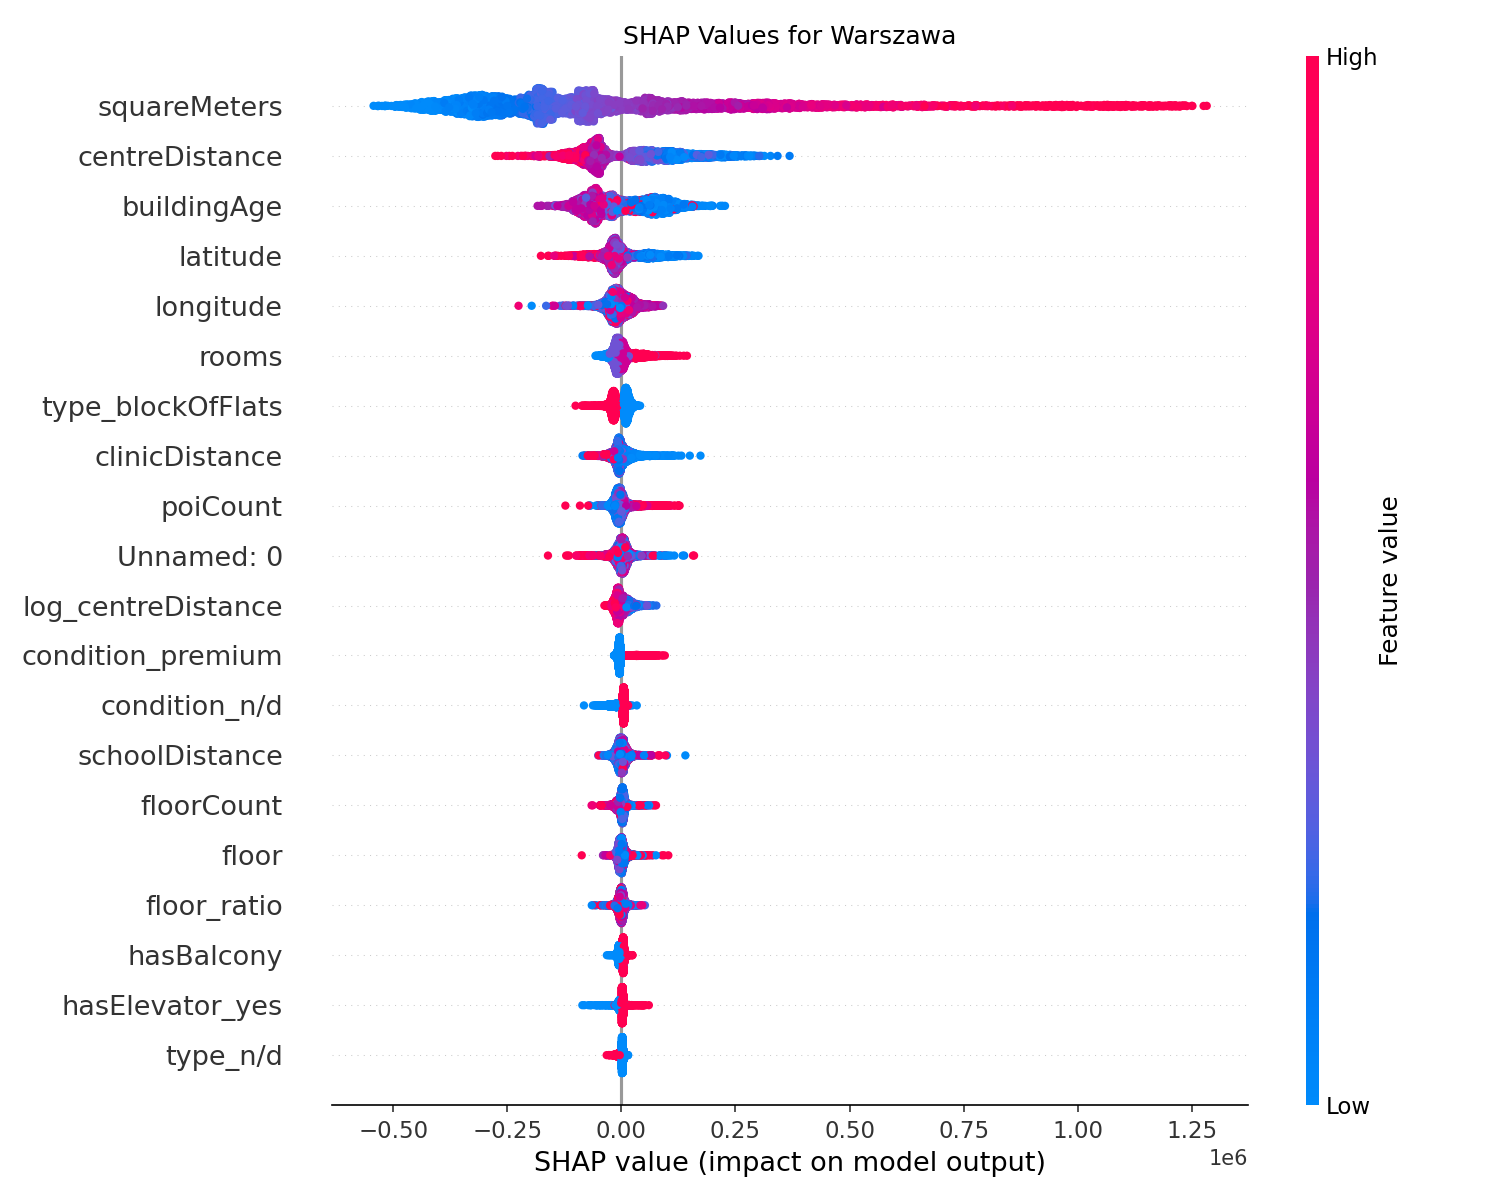
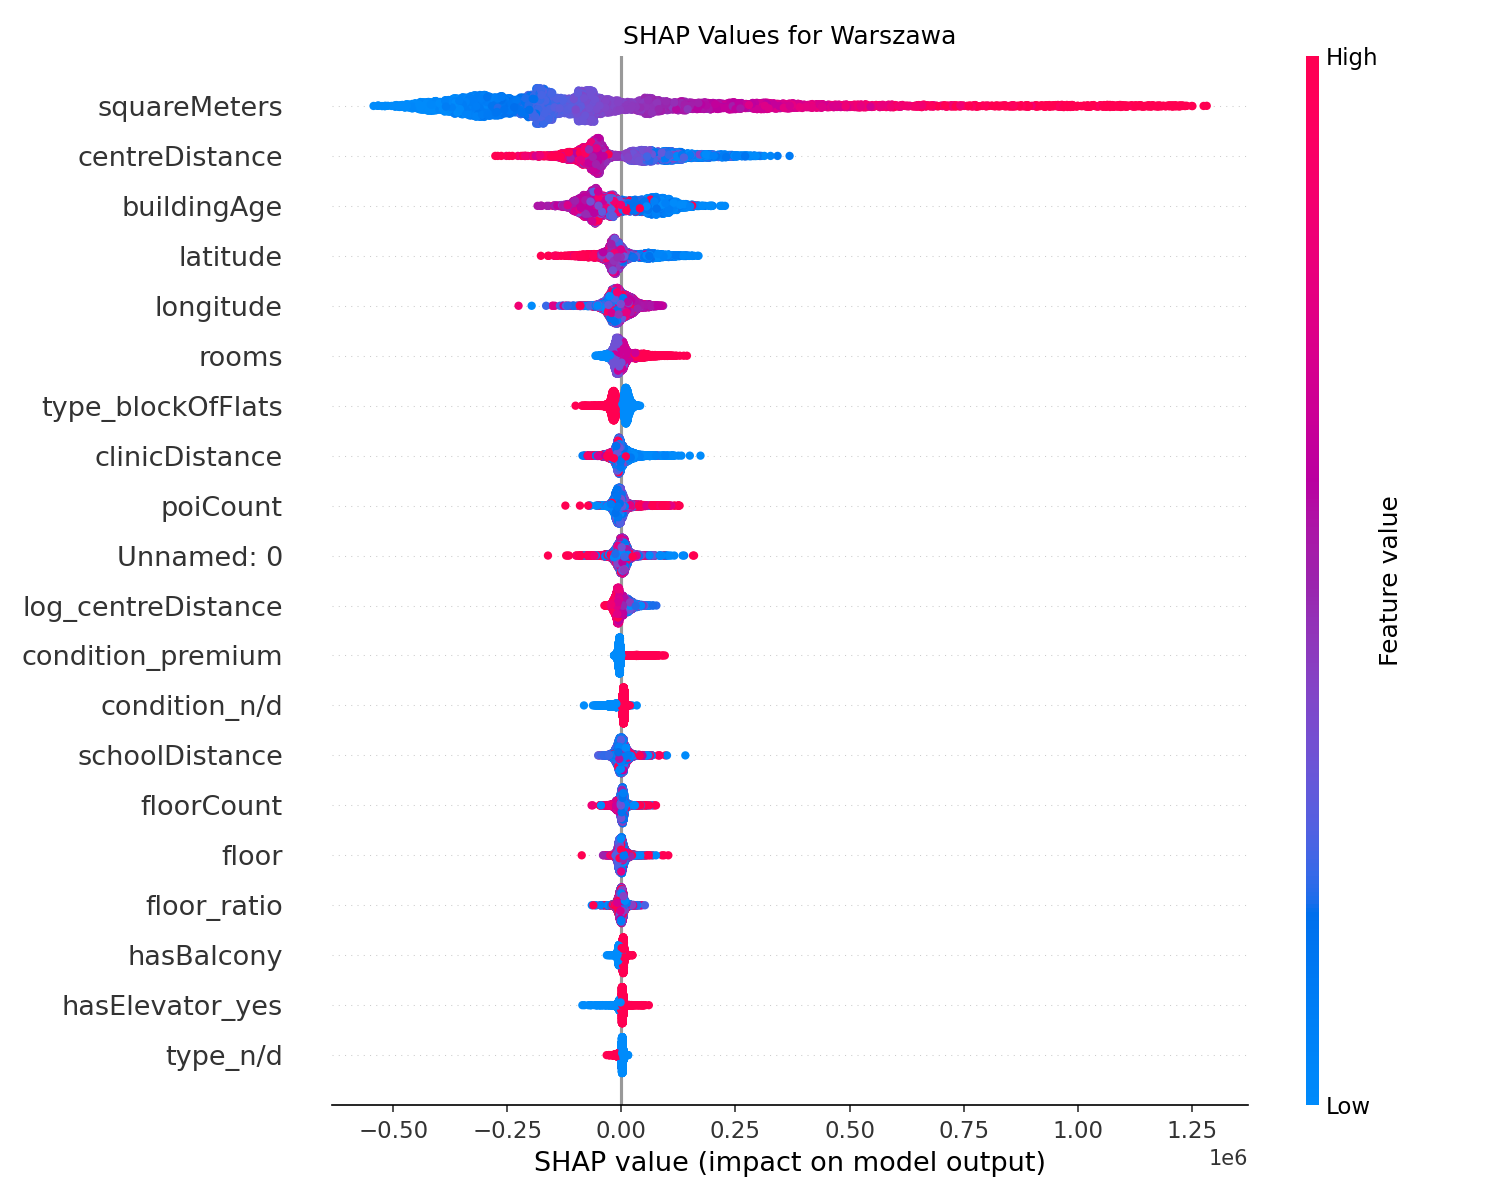
XGB visualisation

diff --git a/visualize.py b/visualize.py
@@ -3,10 +3,11 @@ import seaborn as sns
 import pandas as pd
 import numpy as np
 import shap
+from xgboost import plot_importance
 
 # Visualize actual vs predicted prices
 
-def plot_actual_vs_predicted(y_true: pd.Series, y_pred: np.ndarray, target_city: str):
+def plot_actual_vs_predicted(y_true: pd.Series, y_pred: np.ndarray, target_city: str, model: str):
 
     plt.figure(figsize=(10, 6))
     sns.scatterplot(x=y_true, y=y_pred, alpha=0.6, color='blue')
@@ -24,12 +25,12 @@ def plot_actual_vs_predicted(y_true: pd.Series, y_pred: np.ndarray, target_city:
     plt.legend()
     plt.tight_layout()
     
-    filename = f"Lin_reg/actual_vs_predicted_{city_name.lower().replace(' ', '_')}.png"
+    filename = f"{model}/actual_vs_predicted_{city_name.lower().replace(' ', '_')}.png"
     plt.savefig(filename, dpi=300, bbox_inches='tight')
     print(f"Plot saved to {filename}")
     plt.show()
 
-def plot_residuals(y_true: pd.Series, y_pred: np.ndarray, target_city: str):
+def plot_residuals(y_true: pd.Series, y_pred: np.ndarray, target_city: str, model: str):
     """
     Generates a histogram of the residuals (errors) to analyze their distribution.
     """
@@ -49,12 +50,12 @@ def plot_residuals(y_true: pd.Series, y_pred: np.ndarray, target_city: str):
     plt.legend()
     plt.tight_layout()
     
-    filename = f"Lin_reg/residuals_{city_name.lower().replace(' ', '_')}.png"
+    filename = f"{model}/residuals_{city_name.lower().replace(' ', '_')}.png"
     plt.savefig(filename, dpi=300, bbox_inches='tight')
     print(f"Plot saved to {filename}")
     plt.show()
 
-def plot_residuals_vs_predicted(y_true: pd.Series, y_pred: np.ndarray, target_city: str):
+def plot_residuals_vs_predicted(y_true: pd.Series, y_pred: np.ndarray, target_city: str, model: str):
     """
     Generates a scatter plot of residuals vs predicted values to check for heteroscedasticity.
     """
@@ -74,27 +75,21 @@ def plot_residuals_vs_predicted(y_true: pd.Series, y_pred: np.ndarray, target_ci
     plt.legend()
     plt.tight_layout()
     
-    filename = f"Lin_reg/residuals_vs_predicted_{city_name.lower().replace(' ', '_')}.png"
+    filename = f"{model}/residuals_vs_predicted_{city_name.lower().replace(' ', '_')}.png"
     plt.savefig(filename, dpi=300, bbox_inches='tight')
     print(f"Plot saved to {filename}")
     plt.show()
 
-def feature_importance(model):
-    importance = model.get_booster().get_score(importance_type = 'gain')
-    feature_names = model.feature_names_in_ if hasattr(model, 'feature_names_in_') else range(len(importance))
-    df_importance = pd.DataFrame({'feature': feature_names, 'importance': list(importance)})
+def feature_importance(model, target_city: str, max_features: int = 15):
 
-    plt.figure(figsize=(10, 8))
-    plt.barh(df_importance['feature'], df_importance['importance'])
-    plt.xlabel('Importance (Gain)')
-    plt.title('XGB Feature Importance')
-    plt.gca().invert_yaxis()
+    plot_importance(model, importance_type = 'gain', max_num_features = max_features)
+    plt.title(f'XGBoost feature importance')
     plt.tight_layout()
-    plt.savefig("XGB/xgb_feature_importance.png", dpi=150)
+    plt.savefig('XGB/feature_importance.png')
     plt.show()
     
 
-def plot_shap_summary(model, X_test, target_city="Warszawa"):
+def shap_summary(model, X_test, target_city: str):
     explainer = shap.TreeExplainer(model)
     shap_values = explainer.shap_values(X_test)
     
@@ -104,3 +99,35 @@ def plot_shap_summary(model, X_test, target_city="Warszawa"):
     plt.tight_layout()
     plt.savefig("XGB/xgb_shap_summary.png", dpi=150)
     plt.show()
+
+def shap_dependence(model, X: pd.DataFrame, target_city: str, top_k: int = 5, samples: int = 2000):
+
+    X_sample = X.sample(n=samples, random_state=42)
+    X_sample = X_sample.reset_index(drop=True)
+
+    explainer = shap.TreeExplainer(model)
+    
+    shap_values = explainer.shap_values(X_sample)
+    shap_values = np.asarray(shap_values)
+
+    feature_names = X_sample.columns.tolist()
+
+    mean_abs = np.abs(shap_values).mean(axis=0)
+    importance = pd.Series(mean_abs, index=feature_names)
+
+    top_features = importance.sort_values(ascending=False).head(top_k).index.to_list()
+
+    for feature in top_features:
+        feature_index = feature_names.index(feature)
+
+        shap.dependence_plot(
+            feature_index, 
+            shap_values, 
+            X_sample, 
+            feature_names = feature_names,
+            show=False
+        )
+
+        plt.title(f'SHAP Dependencies')
+        plt.tight_layout()
+        plt.show()

diff --git a/main.py b/main.py
@@ -1,7 +1,7 @@
 from data_loader import load_data
 from preprocess import clean_data, engineer_features, encode_features_train, encode_features_test
 from model import split_data, scale_data, train_linear_regression, evaluate_model, save_model, load_model
-from visualize import plot_actual_vs_predicted, plot_residuals, plot_residuals_vs_predicted, plot_shap_summary, feature_importance
+from visualize import plot_actual_vs_predicted, plot_residuals, plot_residuals_vs_predicted, shap_summary, feature_importance, shap_dependence 
 from model_xgb import optimize_params, load_or_train_model
 from sklearn.model_selection import train_test_split
 import pandas as pd
@@ -9,7 +9,7 @@ import pandas as pd
 def main():
     # Set to 'warszawa', 'szczecin', 'gdansk', etc. or None for the whole dataset
     TARGET_CITY = 'warszawa'  
-    model = 'XGB'
+    model_type = 'XGB'
     
     # Loading data
     #df = load_data()
@@ -46,7 +46,7 @@ def main():
     df_test_encoded = encode_features_test(X_test, train_feature_col)
     df_test_encoded = df_test_encoded.reindex(columns=df_train_encoded.columns, fill_value=0)
 
-    if model == 'Lin_reg':
+    if model_type == 'Lin_reg':
 
         X_train_lin = df_train_encoded
         X_test_lin = df_test_encoded
@@ -75,13 +75,13 @@ def main():
         
         # Visualisation
         y_pred = loaded_model.predict(X_test_scaled)
-        plot_actual_vs_predicted(y_test, y_pred, TARGET_CITY)
+        plot_actual_vs_predicted(y_test, y_pred, TARGET_CITY, model_type)
         
-        plot_residuals(y_test, y_pred, TARGET_CITY)
+        plot_residuals(y_test, y_pred, TARGET_CITY, model_type)
 
-        plot_residuals_vs_predicted(y_test, y_pred, TARGET_CITY)
+        plot_residuals_vs_predicted(y_test, y_pred, TARGET_CITY, model_type)
 
-    elif model == 'XGB':
+    elif model_type == 'XGB':
 
         # Assigning X and y training sets
         X_train_XGB = df_train_encoded
@@ -97,8 +97,14 @@ def main():
             print(f' {k}: {v:.2f}')
 
         # Visualsation
-        plot_shap_summary(model, X_train_XGB, TARGET_CITY)
-        feature_importance(model)
+        y_pred = model.predict(df_test_encoded)
+        feature_importance(model, TARGET_CITY)
+        plot_actual_vs_predicted(y_test, y_pred, TARGET_CITY, model_type)
+        plot_residuals(y_test, y_pred, TARGET_CITY, model_type)
+        plot_residuals_vs_predicted(y_test, y_pred, TARGET_CITY, model_type)
+
+        shap_summary(model, X_train_XGB, TARGET_CITY)
+        shap_dependence(model, X_train_XGB, TARGET_CITY)
 
 
 if __name__ == "__main__":
